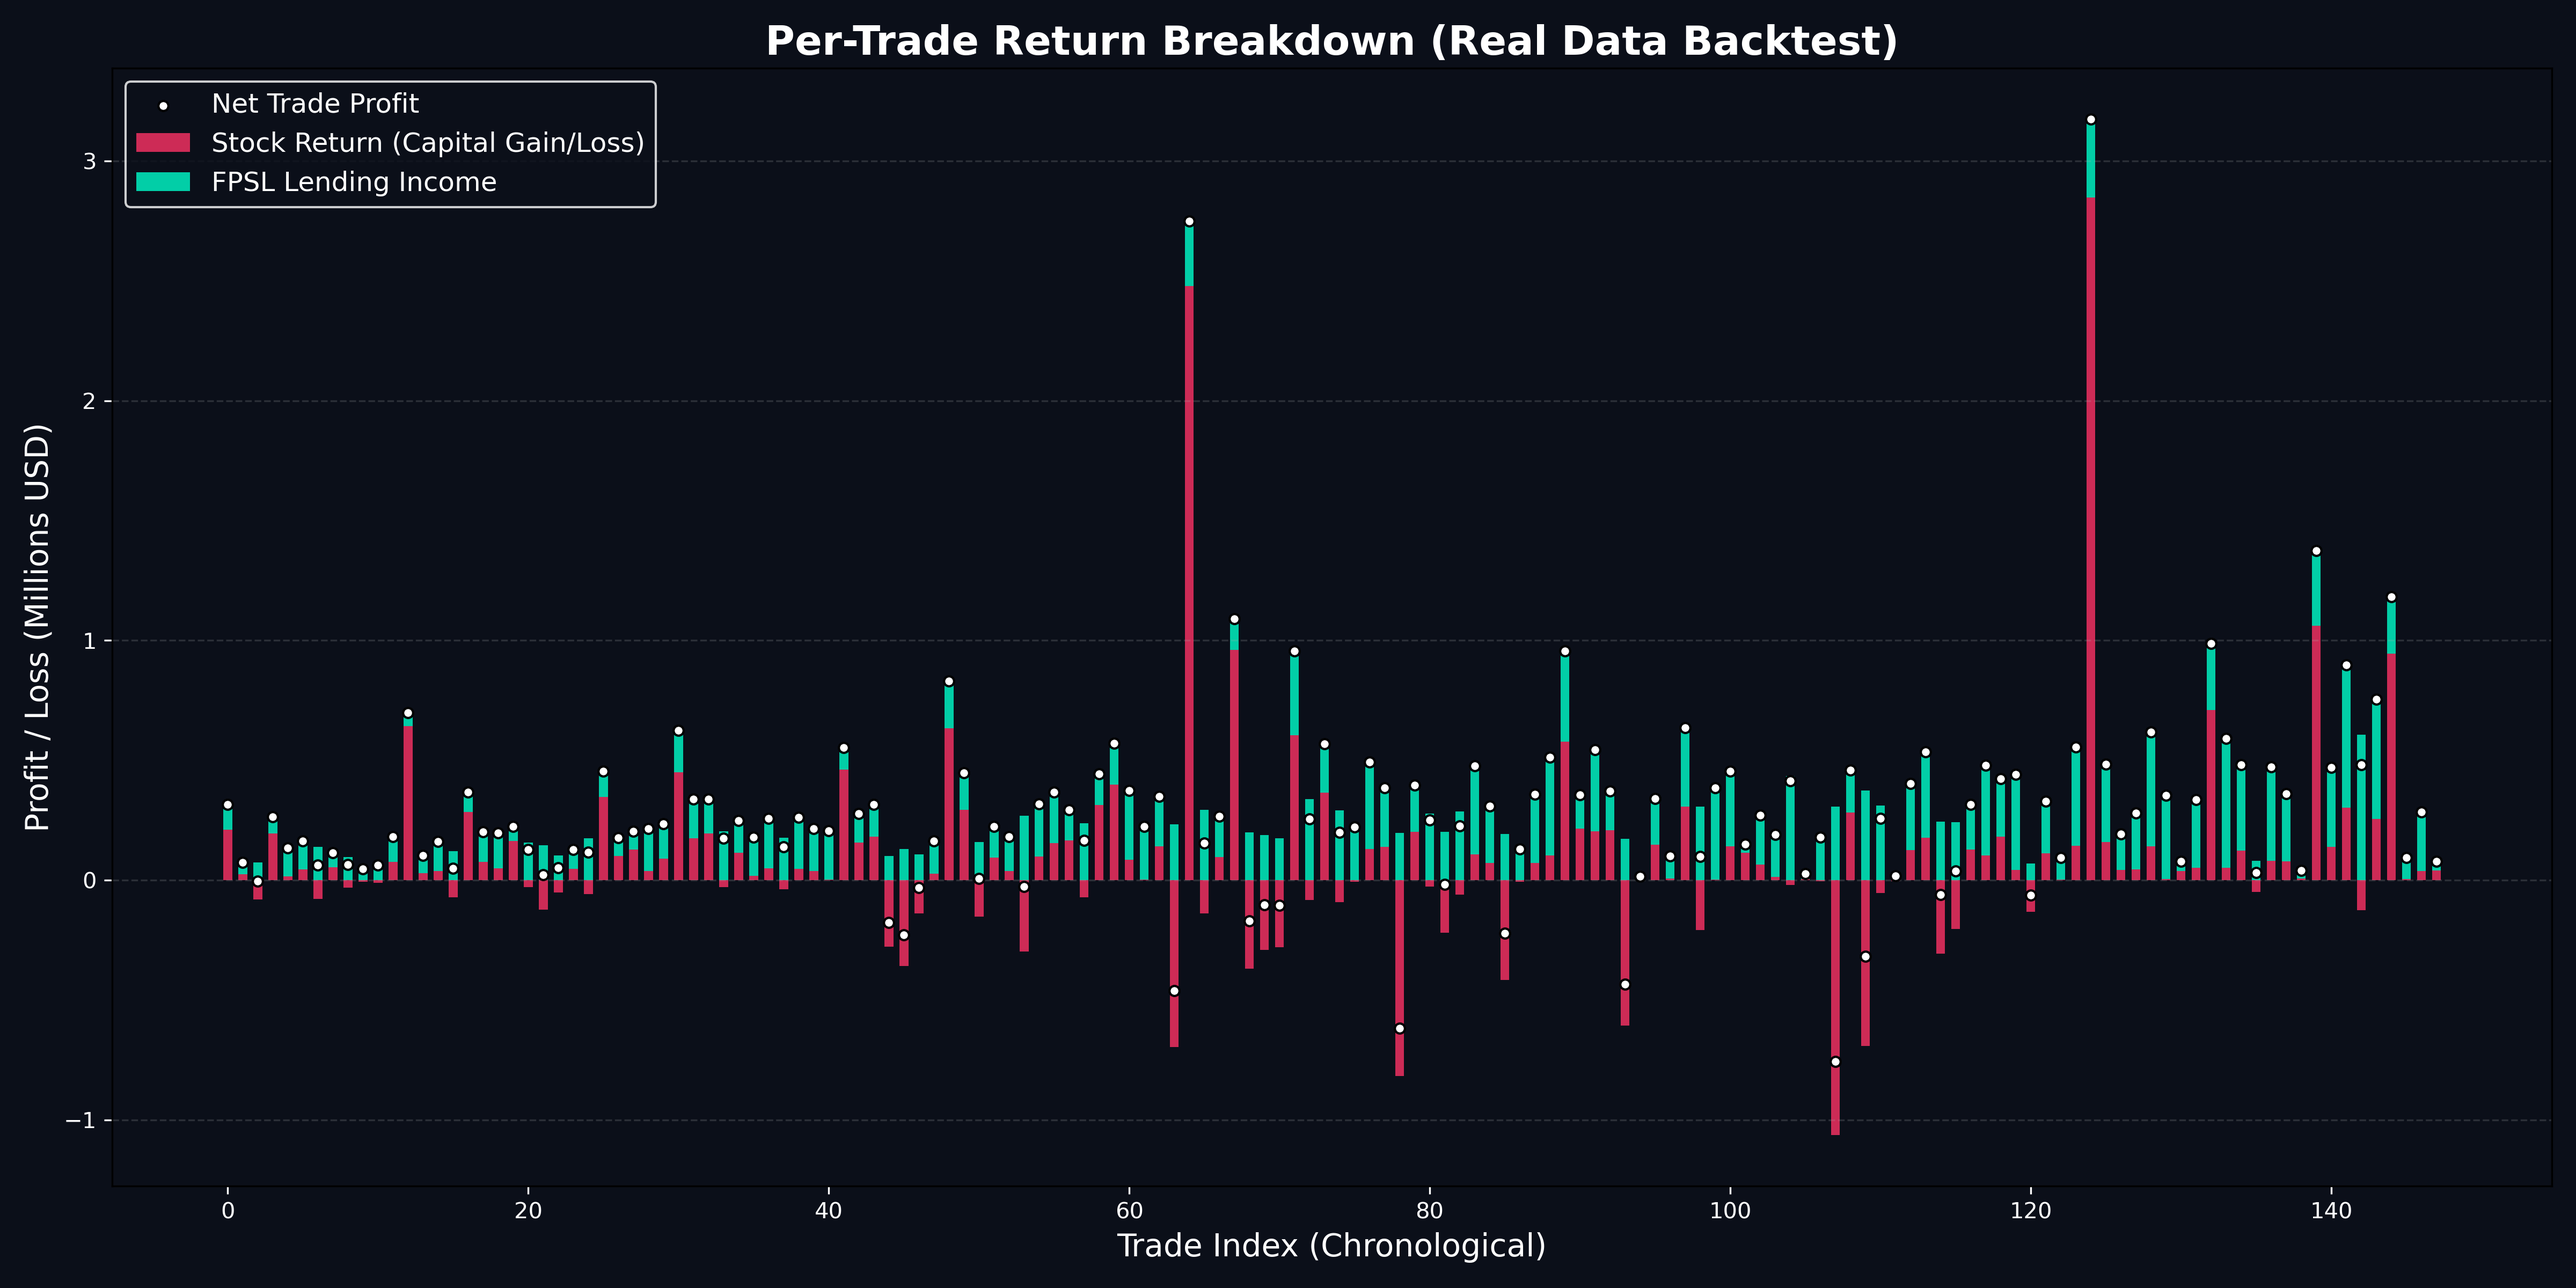
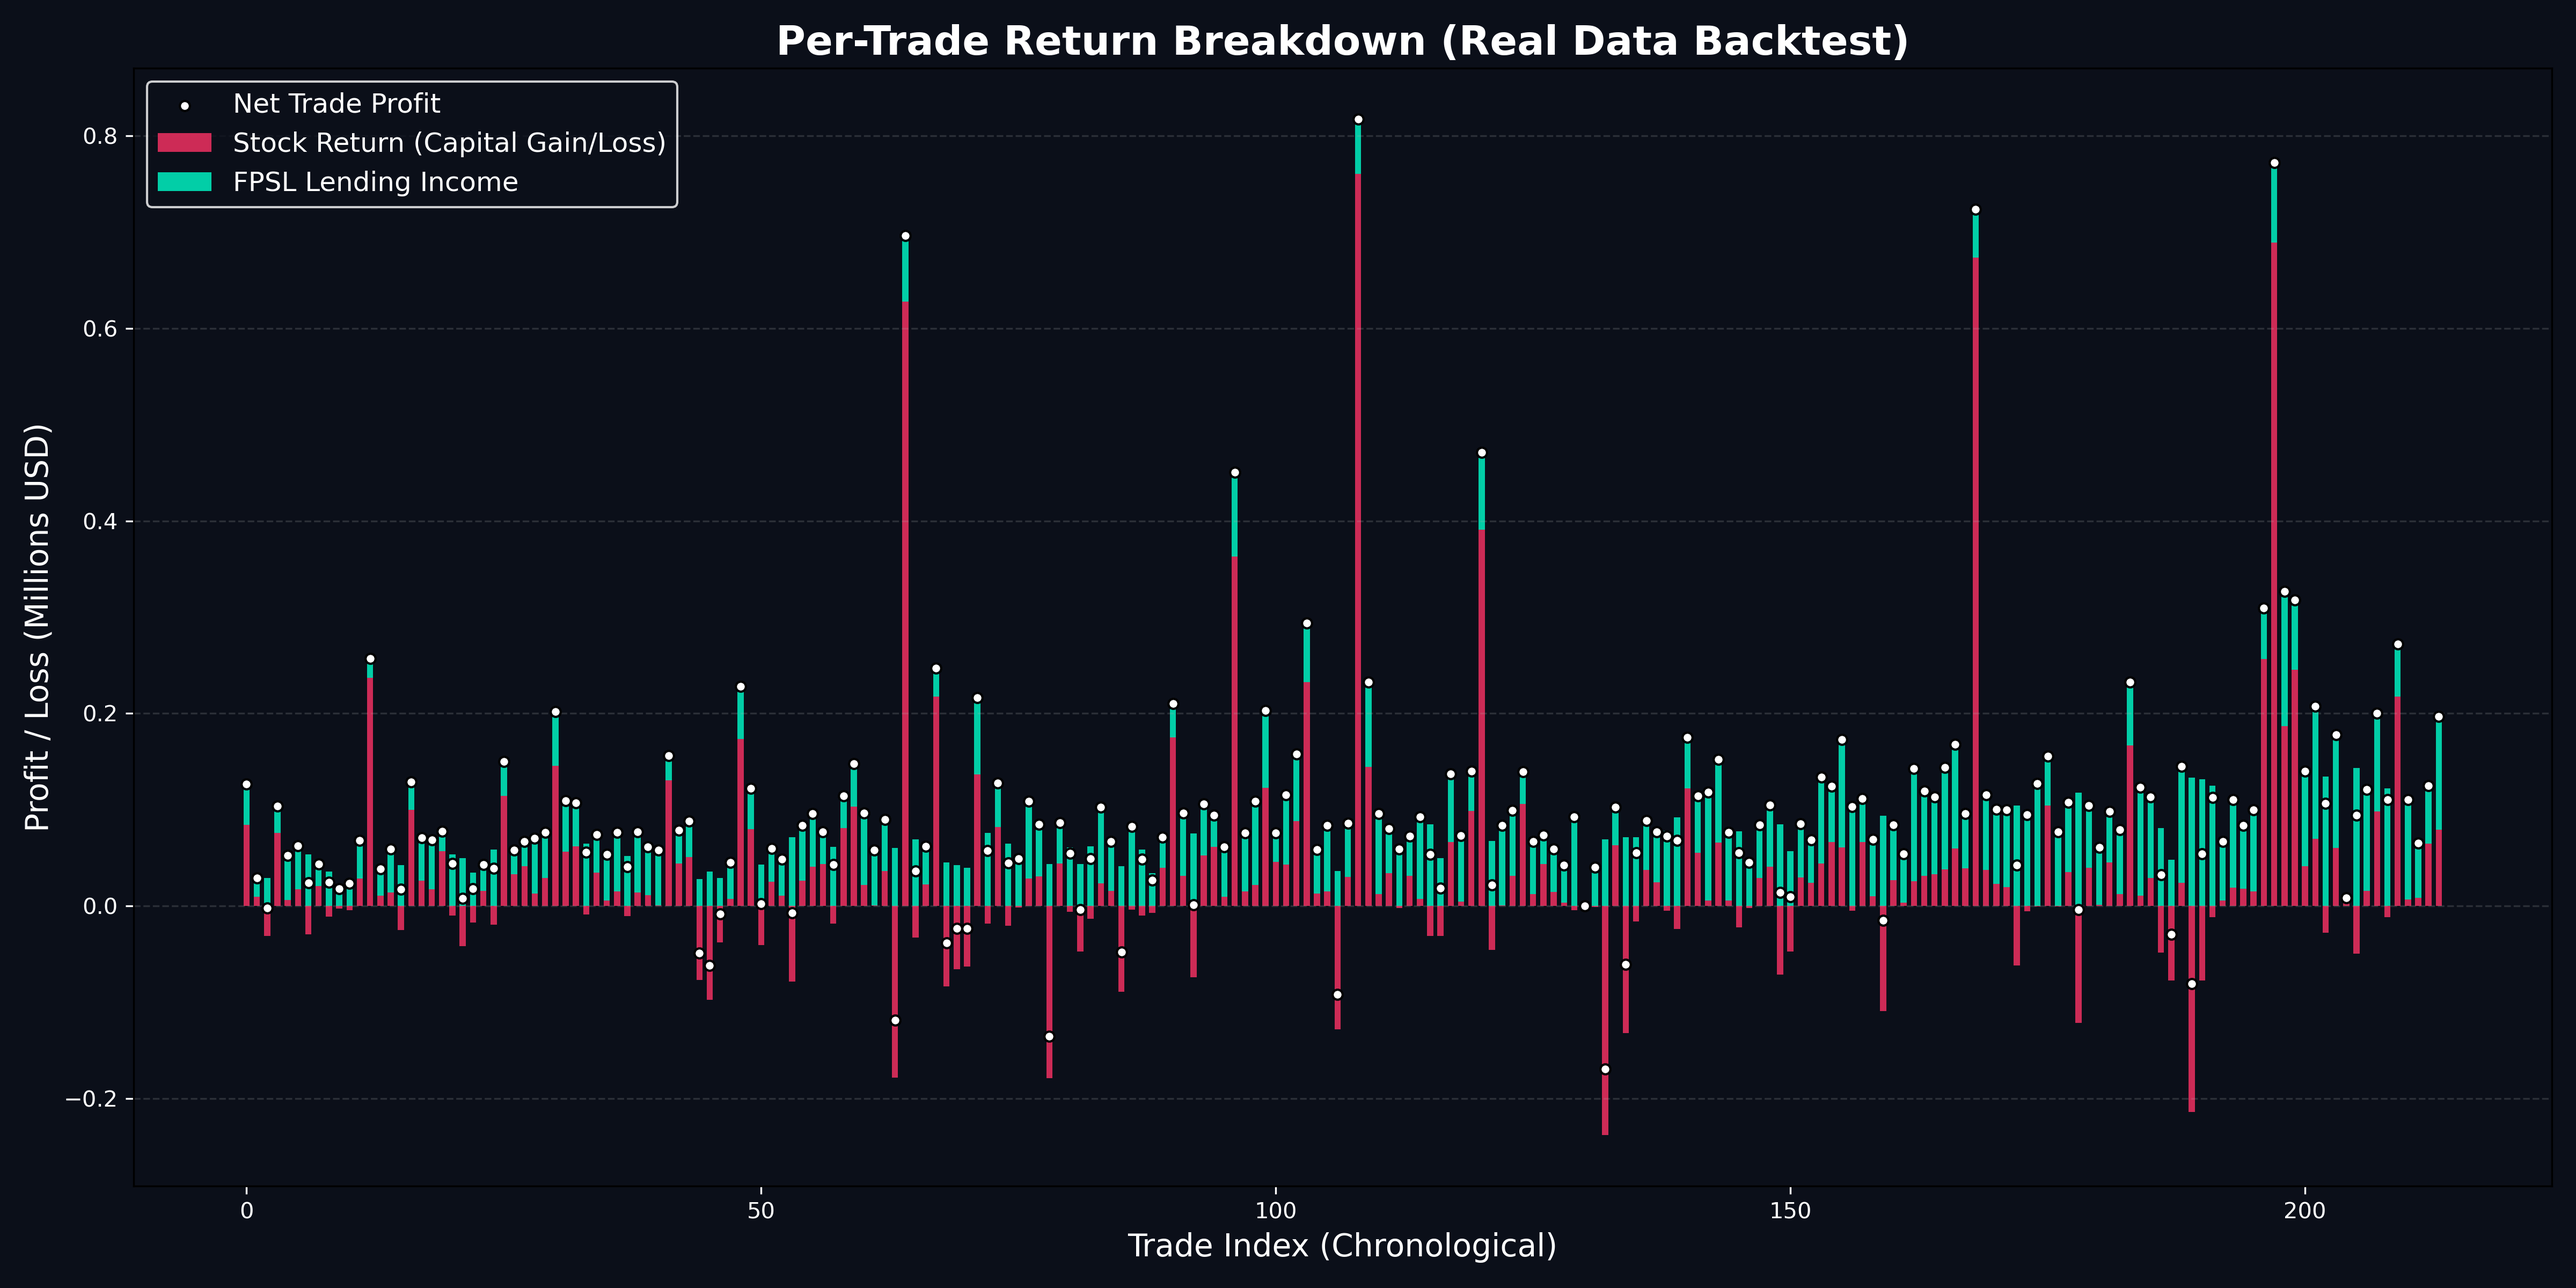
Include representative bar chart in README

diff --git a/README.md b/README.md
@@ -23,6 +23,11 @@ In reality, many "successful" Phase 2/3 trials result in the stock trading down 
 
 ![Per-Trade Statistics](fpsl_mc_boxplots.png)
 
+### Representative Simulation (Per-Trade Breakdown)
+To visualize exactly how the yield cushions the capital losses in a single sequential timeline, the script isolates the specific simulation whose final NAV closest matches the $320.15 Million Mean.
+
+![Representative MC Simulation Trades](fpsl_mc_representative_trades.png)
+
 ## Repository Structure
 *   `data/`
     *   `BioPharmCatalyst.csv`: The raw dataset of clinical events.
